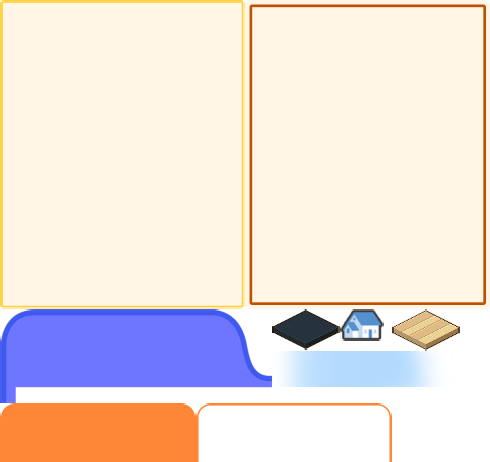
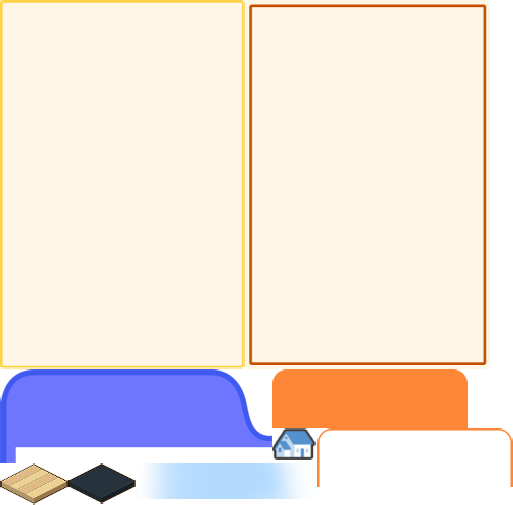
调整小屋商城购买列表界面

Changed region(s): [[0.0, 0.0, 1.0, 1.0], [0.7959, 0.9091, 0.8265, 1.0], [0.0, 0.0, 0.0306, 0.0303]]

diff --git a/src/pica/render/ui/PicaRoomDecorate/PicaRoomDecorateShopPanel.ts b/src/pica/render/ui/PicaRoomDecorate/PicaRoomDecorateShopPanel.ts
@@ -40,7 +40,7 @@ export class PicaRoomDecorateShopPanel extends Phaser.GameObjects.Container {
         const width = this.width;
         const height = this.height;
         const posY = -height * 0.5;
-        this.bg = new NineSlicePatch(this.scene, 0, 0, width, height, UIAtlasName.uicommon1, "bg1", UIHelper.background_w(this.dpr));
+        this.bg = new NineSlicePatch(this.scene, 0, 0, width, height, UIAtlasName.uicommon1, "bg", UIHelper.background_w(this.dpr));
         this.add(this.bg);
         this.closeBtn = new Button(this.scene, UIAtlasName.uicommon, "close");
         this.closeBtn.setDisplaySize(28 * this.dpr, 28 * this.dpr);
@@ -78,7 +78,7 @@ export class PicaRoomDecorateShopPanel extends Phaser.GameObjects.Container {
             tab.setTextColor("#ffffff");
         }));
         this.add(this.secondMenu);
-        const graW = 302 * this.dpr, graH = 324 * this.dpr, grax = -graW * 0.5, gray = -graH * 0.5 - 20 * this.dpr;
+        const graW = 302 * this.dpr, graH = 388 * this.dpr, grax = -graW * 0.5, gray = -graH * 0.5 + 12 * this.dpr;
         const graphicbg = this.scene.make.graphics(undefined, false);
         graphicbg.fillStyle(0xFE8737, 1);
         graphicbg.fillRoundedRect(grax, gray, graW, graH, {
@@ -86,15 +86,15 @@ export class PicaRoomDecorateShopPanel extends Phaser.GameObjects.Container {
         });
         this.add(graphicbg);
         const gridWdith = graW - 16 * this.dpr;
-        const gridHeight = 380 * this.dpr;
-        const gridY = 12 * this.dpr;
-        this.shopgride = this.createGrideTable(0, gridY, gridWdith, gridHeight, 126 * this.dpr, 158 * this.dpr);
+        const gridHeight = 444 * this.dpr;
+        const gridY = 44 * this.dpr;
+        this.shopgride = this.createGrideTable(0, gridY, gridWdith, gridHeight, 126 * this.dpr, 188 * this.dpr);
         this.leaveButton = this.createNineButton(UIAtlasName.uicommon, "yellow_btn_normal", i18n.t("common.leave"), "#996600");
-        this.leaveButton.y = this.height * 0.5 - this.leaveButton.height * 0.5 - 15 * this.dpr;
+        this.leaveButton.y = this.height * 0.5 + this.leaveButton.height * 0.5 + 15 * this.dpr;
         this.leaveButton.x = -this.leaveButton.width * 0.5 - 15 * this.dpr;
         this.leaveButton.on(String(ClickEvent.Tap), this.onCloseHandler, this);
         this.corfirmButton = this.createNineButton(UIAtlasName.uicommon, "butt_gray", i18n.t("common.save"), "#000000");
-        this.corfirmButton.y = this.height * 0.5 - this.corfirmButton.height * 0.5 - 15 * this.dpr;
+        this.corfirmButton.y = this.height * 0.5 + this.corfirmButton.height * 0.5 + 15 * this.dpr;
         this.corfirmButton.x = -this.leaveButton.x;
         this.corfirmButton.on(String(ClickEvent.Tap), this.onConfirmButtonHandler, this);
         this.corfirmButton.disInteractive();
@@ -281,7 +281,7 @@ class DecorateShopItem extends Phaser.GameObjects.Container {
         this.tipsText.setFontStyle("bold");
         this.button = new ThreeSliceButton(scene, 73 * dpr, 26 * dpr, UIAtlasName.uicommon, UIHelper.threeRedSmall, UIHelper.threeRedSmall, i18n.t("manor.using"));
         this.button.setTextStyle(UIHelper.brownishStyle(dpr));
-        this.button.y = this.tipsText.y + 2 * dpr;
+        this.button.y = this.tipsText.y -3 * dpr;
         this.button.on(ClickEvent.Tap, this.onButtonHandler, this);
         this.imgprice.y = this.button.y - this.button.height * 0.5 - this.imgprice.height * 0.5 - 5 * dpr;
         this.add([this.bg, this.icon, this.nameText, this.imgprice, this.tipsText, this.button]);
